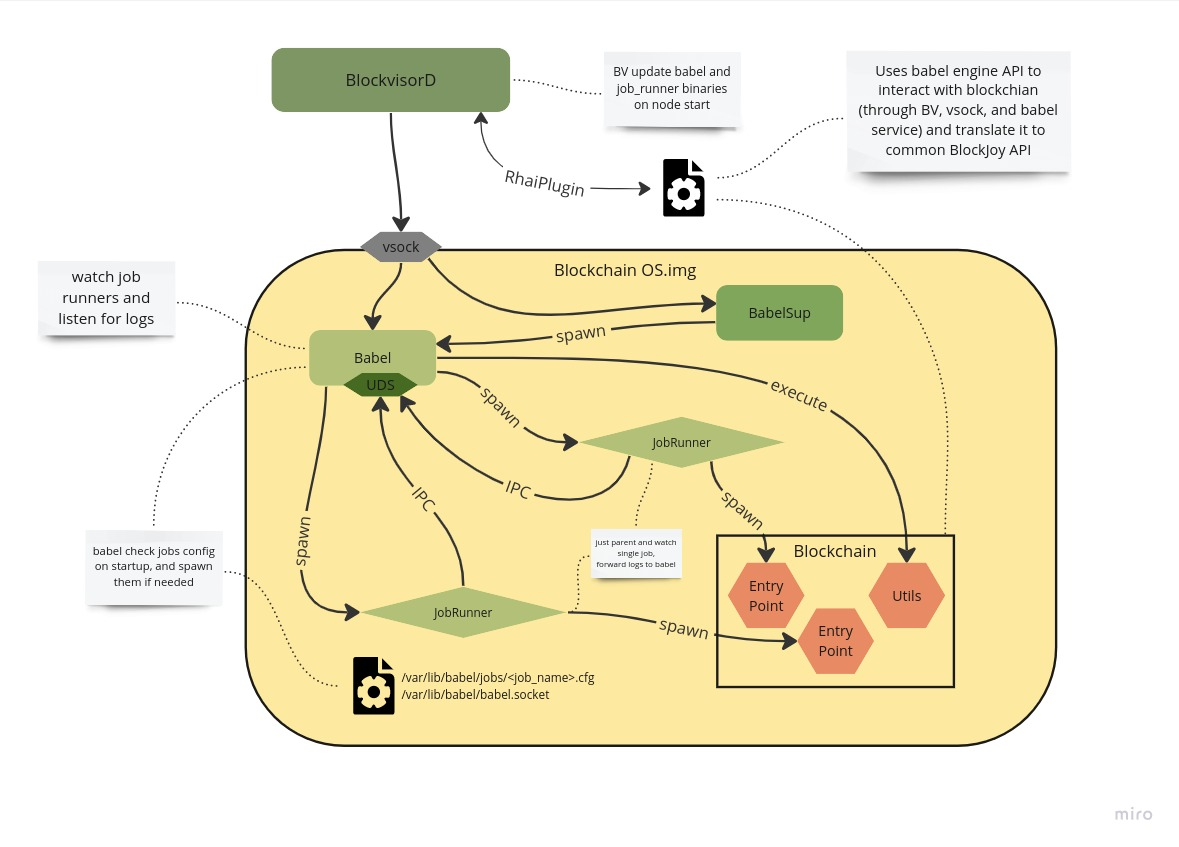
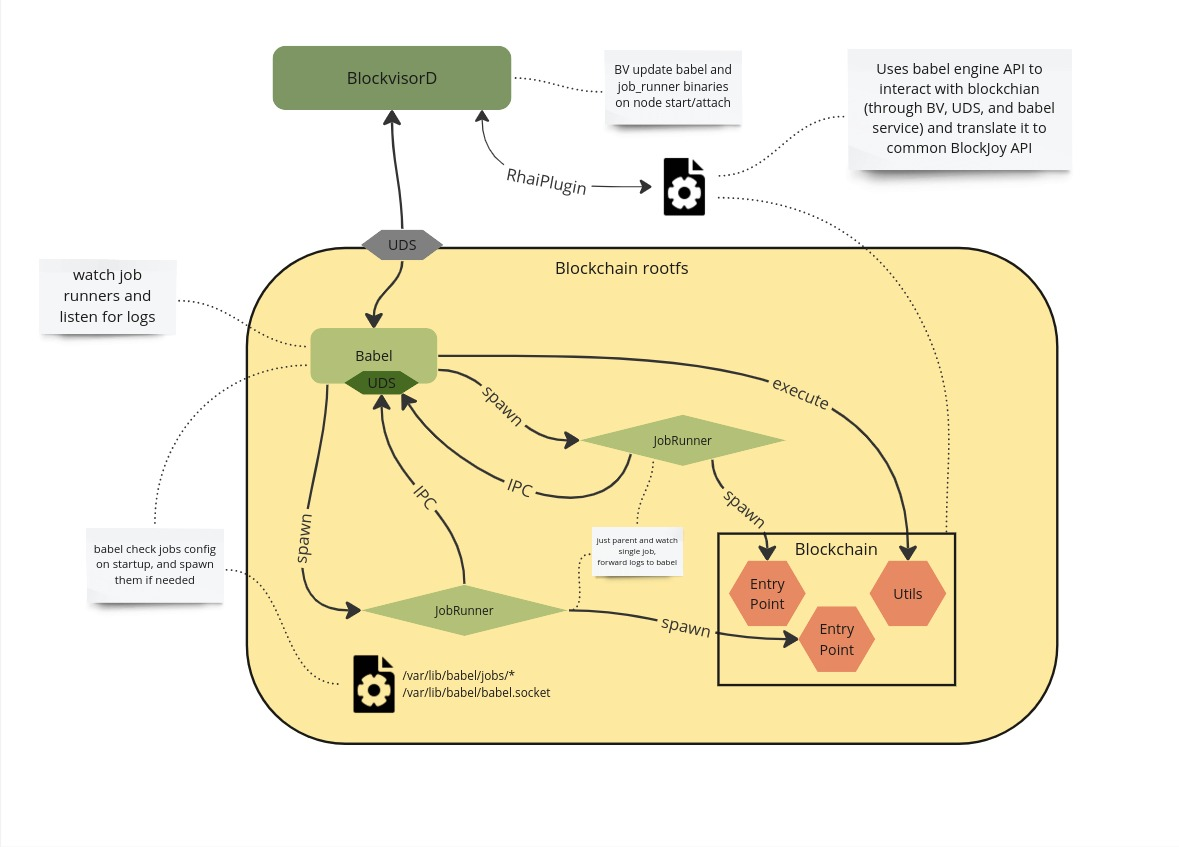
docs: update docs with apptainer as default platform

diff --git a/bv/src/pal.rs b/bv/src/pal.rs
@@ -55,7 +55,7 @@ pub trait Pal {
     /// Attach to already created VM instance.
     async fn attach_vm(&self, node_data: &NodeData) -> Result<Self::VirtualMachine>;
 
-    /// Build path to VM data directory, a place where kernel and other VM related data are stored.
+    /// Build path to VM data directory, a place where rootfs and other VM related data are stored.
     fn build_vm_data_path(&self, id: Uuid) -> PathBuf;
     /// Get available resources, but take into account requirements declared by nodes.
     fn available_resources(&self, nodes_data_cache: &NodesDataCache) -> Result<AvailableResources>;

diff --git a/README.md b/README.md
@@ -54,24 +54,19 @@ used during debugging issues, not printed by default
 - `/opt/blockvisor/current` symlink to current `<version>`
 - `/opt/blockvisor/<version>/` whole bundle
 - `/etc/blockvisor.json` generated by `bvup <PROVISION_TOKEN>`, but can be later modified
-- `/etc/systemd/system/tmux.service`
 - `/etc/systemd/system/blockvisor.service`
 - `/var/lib/blockvisor/nodes.json`
 - `/var/lib/blockvisor/nodes/<uuid>.json` node specific metadata
 - `/var/lib/blockvisor/nodes/<uuid>.rhai` node specific Babel plugin
 - `/var/lib/blockvisor/nodes/<uuid>.data` Babel plugin specific data
-- `/var/lib/blockvisor/firecracker/<uuid>/` node specific firecracker data (e.g. copy of images)
+- `/var/lib/blockvisor/nodes/<uuid>/` node specific data (e.g. copy of images)
 - `/var/lib/blockvisor/images/<protocol>/<node_type>/<node_version>/` downloaded images cache
-- `/var/lib/blockvisor/kernels/<kernel_version>/kernel` downloaded kernels cache
 
 ### Node
 - `/usr/bin/babel`
-- `/usr/bin/babelsup`
 - `/usr/bin/babel_job_runner`
-- `/etc/babelsup.conf`
 - `/etc/babel.conf`
 - `/etc/bvignore`
-- `/etc/systemd/system/babelsup.service`
 - `/var/lib/babel/jobs/<job_name>.cfg`
 - `/var/lib/babel/jobs/<job_name>.status`
 - `/var/lib/babel/jobs_monitor.socket`
@@ -83,7 +78,6 @@ used during debugging issues, not printed by default
 - `bundle/installer`
 - `bundle/babel/`
 - `bundle/blockvisor/`
-- `bundle/firecracker/`
 
 ## Testing
 
@@ -126,16 +120,15 @@ sequenceDiagram
 sequenceDiagram
     participant backend as API
     participant bv as BlockvisorD
-    participant fc as Firecracker
-    participant babelsup as BabelSup
+    participant apptainer as Apptainer
     
     backend->>bv: NodeCreate
+    bv-->>bv: mount node rootfs
     bv-->>backend: InfoUpdate
-    bv->>fc: create vm
     backend->>bv: NodeStart
     bv-->>backend: InfoUpdate
-    bv->>fc: start vm with BabelSup inside
-    babelsup->>fc: listen for messages on vsock
+    bv->>apptainer: start container
+    bv->>apptainer: start babel inside running container (listening on UDS)
 ```
 
 ### Execute Method on Blockchain
@@ -225,27 +218,24 @@ sequenceDiagram
 ```mermaid
 sequenceDiagram
     participant bv as BlockvisorD
-    participant fc as Firecracker
-    participant babelsup as BabelSup
+    participant apptainer as Apptainer
     participant babel as Babel
     
-    bv ->> fc: start node
-    activate babelsup
-    babelsup ->> babel: start Babel if exists
-    activate babel
-    Note right of babelsup: otherwise wait for startNewBabel request
-    bv ->> bv: connect BabelSup  
     activate bv
-    bv ->> babelsup: check Babel binary
-    alt Babel checksum doesn't match
-        bv ->> babelsup: send new Babel binary
-        babelsup ->> babelsup: replace Babel binary
+    alt Start node
+        bv ->> apptainer: start container
+        bv ->> bv: copy fresh babel binary into node rootfs
+        bv ->> babel: start babel inside running container
         activate babel
-        babelsup -->> babel: request graceful shutdowan
+    deactivate babel
+    else Attach to running node
+        activate babel
+        bv -->> babel: request graceful shutdown
         babel ->> babel: finish pending actions
         babel ->> babel: graceful shutdown
         deactivate babel
-        babelsup ->> babel: restart
+        bv ->> bv: copy fresh babel binary into node rootfs
+        bv ->> babel: start babel again
         activate babel
     end
 
@@ -253,10 +243,9 @@ sequenceDiagram
     alt JobRunner checksum doesn't match
         bv ->> babel: send new JobRunner binary
         babel ->> babel: replace JobRunner binary
-        Note right of babelsup: JobRunner perform blockchain action/entrypoint<br> so it is not restarted automatiaclly
+        Note right of babel: JobRunner perform blockchain action/entrypoint<br> so it is not restarted automatically
     end
-    
+
     deactivate babel
-    deactivate babelsup
     deactivate bv
 ```

diff --git a/node_image_builder_guide.md b/node_image_builder_guide.md
@@ -9,7 +9,7 @@ While this guide will describe the steps needed to create an image from scratch,
 it is recommended to use the bv image clone feature if the new blockchain requires similar configurations as an existing one
 whose image is readily available.
 
-Across this guide, we will refer to the physical machines as HOSTS that will run our different blockchain Firecracker MicroVM which we call NODES.
+Across this guide, we will refer to the physical machines as HOSTS that will run our different blockchain Apptainer containers which we call NODES.
 
 ### Before you start
 It is recommended to familiarize with rest of documentation, to get a feel of the concepts, and where the important files are on the hosts and nodes:
@@ -107,12 +107,12 @@ __HINT 4__: When using standard (not `dev`) BV bundle, it is recommended to use 
 while adding support for a new node. All commands, run on a node created in standalone mode, will bypass the API.
 Hence, node won't be visible for the API, as it would normally be.
 
-__HINT 5__: Once created node is started, `tmux` can be used, to modify rootfs and install/update blockchain specific software.
-<br>Adding below alias to your `~/.bashrc` will allow you to quickly attach `tmux` to it (don't forget to install `jq` first):
+__HINT 5__: Once created node is started, `apptainer shell` can be used, to modify rootfs and install/update blockchain specific software.
+<br>Adding below alias to your `~/.bashrc` will allow you to quickly attach  to it (don't forget to install `jq` first):
 ```
-alias tma='tmux attach -t $(cat .bv-workspace |jq .active_node.name| xargs)'
+alias node_shell='apptainer shell instance://$(cat .bv-workspace |jq .active_node.id| xargs)'
 ```
-Now doing `tma` in your workspace folder will attach you to the active node's tmux.
+Now doing `node_shell` in your workspace folder will run active node shell.
 
 #### Example
 ```
@@ -134,7 +134,7 @@ First you need to provision the binaries and configurations needed for the block
 Below steps should be considered generic and suitable for any blockchain:
 - Identify the documentation for the project you're trying to add support for.
 - Discern what kind of node you want to add as different types of nodes will imply different approaches (Light/Full/Archive).
-- Use `tmux` to attach to the node and go through the blockchain specific installation as you would normally do on any machine.
+- Use `apptainer shell` to attach to the node and go through the blockchain specific installation as you would normally do on any machine.
 - Ensure all the binaries recommended in the documentation are compiled/installed properly on the node.
 - Look through the documentation and try to find any Blockchain provided snapshots;
 especially when running archive nodes, it can take weeks to sync a node to the tip of the chain

diff --git a/host_setup_guide.md b/host_setup_guide.md
@@ -14,7 +14,7 @@ BV doesn't require any particular linux distribution, but it is recommended to u
 
 BV should work with any kernel version `>=4.14` and `<6.0.0`, but it is recommended to use at lease `5.10.0`.
 
-### Install BV CLI Dependencies
+### Install BV Dependencies
 
 Beside standard linux tool available in all distributions, BV requires following CLI tools to be available:
 
@@ -23,7 +23,6 @@ Beside standard linux tool available in all distributions, BV requires following
 - `fallocate`
 - `debootstrap`
 - `systemctl`
-- `tmux`
 - `ip`
 - `mkfs.ext4`
 
@@ -31,16 +30,20 @@ For _Ubuntu_ based distributions:
 
 ```shell
 apt update
-apt install pigz debootstrap tmux util-linux e2fsprogs chrony
+apt install pigz debootstrap util-linux e2fsprogs chrony
 ```
+
+### Install Apptainer
+
+See [Installing Apptainer](https://apptainer.org/docs/admin/main/installation.html#install-ubuntu-packages)
+Required version is 1.3.0
+In case of any issues, try to build apptainer [from sources](https://apptainer.org/docs/admin/main/installation.html#install-from-source). 
 
 ### Network Setup
 
-Since BV uses Firecracker to run blockchain nodes, it requires bridge interface to be configured. 
+BV uses Apptainer to run blockchain nodes, it requires bridge interface to be configured. 
 If bridge interface name is different thant default `bvbr0`, then it must be explicitly passed to `bvup`
 when provisioning(see `bvup --help` for more details).
-
-See [firecracker docs](https://github.com/firecracker-microvm/firecracker/blob/main/docs/network-setup.md#advanced-setting-up-a-bridge-interface) for more details on network setup.
 
 **Example:**
 
@@ -102,8 +105,9 @@ by setting the following field in `/etc/blockvisor.json` config file:
 "update_check_interval_secs": null
 ```
 
-Remember to restart BV service to apply new settings:
+Remember to stop BV service before changing config file:
 ```shell
 bv stop
+... modify /etc/blockvisor.json ...
 bv start
 ```

diff --git a/bv/tests/README.md b/bv/tests/README.md
@@ -16,7 +16,7 @@ so they are marked as `[serial]`.
 
 ### Test Environment
 - it is expected that `babel` binary is built wit `make build-release` 
-- tmux, firecracker, and jailer are installed
+- apptainer is installed
 - `testing/validator/0.0.[1-2]` images are downloaded to `/var/lib/blockvisor/images`
 - separate `BV_ROOT` is created for each test in `std::env::temp_dir()`,
  it can be overridden by `BV_TEMP` env variable,
